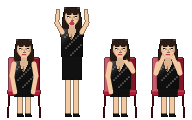
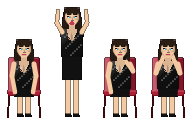
Screen, charge and box-out arms fixed; hold ○ to stay set for a charge; stronger cleavage
The screen and charge clips keyed short arms with the hands behind the elbows, which the arm rig
stretched into a backwards bend. They now fold the arms across the chest at full arm length
(elbows solved down and back, crossed forearms in turned views); box-outs spread the arms wide
with forearms up and elbows pointing at the floor. Holding ○ on defense keeps the charge set
until release (capped like held screens). Celebs 01, 09, 12 and 16: wider, deeper neckline and
stronger cleavage shading so it reads at game distance.

Claude-Session: https://claude.ai/code/session_01CcgHT1pqBqfrX5GZbFhXLS

diff --git a/src/render/anim.ts b/src/render/anim.ts
@@ -94,6 +94,20 @@ const defPose = (o: { hip?: number; fF?: J; fB?: J; hF?: J; hB?: J; dip?: number
     lat: { fF: fl, kF: fl - 1, fB: bl, kB: bl + 1, eF: 19, hF: 29, eB: -19, hB: -29 } };
 };
 
+/**
+ * Arms folded across the chest (screens, charges): hands crossed in front at full arm length, elbows solved down and
+ * back; the forearms cross toward the camera (lat), so turned views show the crossed arms too.
+ */
+const foldArms = (p: Pose, t: number): Pose => {
+  const hF: J = [p.sF[0] + 7, p.sF[1] - 13 - t], hB: J = [p.sB[0] + 8, p.sB[1] - 11 - t];
+  return { ...arms(p, hF, hB), lat: { ...(p.lat ?? {}), eF: 9, hF: -5, eB: -9, hB: 5 } };
+};
+/**
+ * Box-out arms: spread wide front and back with the forearms up and the elbows pointing at the floor (solved at full
+ * arm length so nothing bends backwards). k = how far the arms reach out (push = a little wider and higher).
+ */
+const boxArms = (p: Pose, k = 1): Pose => arms(p, [p.sF[0] + 15 * k, p.sF[1] + 3 * k], [p.sB[0] - 15 * k, p.sB[1] + 3 * k], [-1, 1]);
+
 const lowStance = P({ head: [3, 85], neck: [2, 76], sF: [3, 73], sB: [-1, 73], hip: [0, 44], kF: [7, 22], kB: [-6, 22], fF: [9, 0], fB: [-8, 0] });
 
 // jog / sprint keys (front leg forward, passing, back leg forward, passing)
@@ -378,12 +392,14 @@ export const CLIPS: Clip[] = [
     { t: 0, pose: P({ eF: [10, 71], hF: [17, 75] }, lowStance) },
     { t: 0.5, pose: P({ head: [6, 82], neck: [5, 73], sF: [6, 70], eF: [14, 58], hF: [22, 46], kF: [10, 22], fF: [13, 0] }, lowStance) },
     { t: 1, pose: P({ eF: [10, 71], hF: [17, 75] }, lowStance) }] },
+  // screen: wide base, arms folded across the chest at full arm length (elbows down and back, like the defensive arms)
   { name: 'screen', frames: 3, keys: [
-    { t: 0, pose: P({ kF: [6, 26], fF: [8, 0], kB: [-6, 26], fB: [-8, 0], hip: [0, 49], eF: [6, 68], hF: [1, 70], eB: [-5, 68], hB: [2, 72] }) },
-    { t: 1, pose: P({ kF: [7, 25], fF: [9, 0], kB: [-7, 25], fB: [-9, 0], hip: [0, 48], eF: [6, 67], hF: [0, 70], eB: [-5, 67], hB: [2, 71], head: [1, 90] }) }] },
+    { t: 0, pose: foldArms(legs(P({ hip: [0, 49], head: [2, 90] }), [9, 0], [-9, 0]), 0) },
+    { t: 1, pose: foldArms(legs(P({ hip: [0, 47], head: [2, 89], neck: [1, 80], sF: [2, 77], sB: [-2, 77] }), [10, 0], [-10, 0]), 1) }] },
+  // taking a charge: feet set, braced and leaning back a touch, arms folded to the chest
   { name: 'charge', frames: 3, keys: [
-    { t: 0, pose: lowStance },
-    { t: 1, pose: P({ head: [-2, 88], neck: [-2, 79], kF: [5, 25], fF: [7, 0], kB: [-5, 25], fB: [-7, 0], hip: [0, 48], eF: [4, 68], hF: [0, 70], eB: [-4, 68], hB: [1, 72] }) }] },
+    { t: 0, pose: foldArms(lowStance, 0) },
+    { t: 1, pose: foldArms(legs(P({ head: [-3, 86], neck: [-3, 77], sF: [-2, 74], sB: [-5, 74], hip: [0, 46] }), [8, 0], [-7, 0]), 1) }] },
   { name: 'fall', frames: 6, keys: [
     { t: 0, pose: P({ head: [-6, 88], neck: [-5, 79], sF: [-3, 77], sB: [-7, 77], eF: [4, 80], hF: [10, 88], eB: [-12, 78], hB: [-17, 84] }) },
     { t: 0.35, pose: P({ head: [-20, 40], neck: [-14, 36], sF: [-12, 34], sB: [-14, 34], hip: [0, 22], kF: [8, 30], fF: [16, 20], kB: [7, 26], fB: [15, 14], eF: [-6, 44], hF: [-1, 50], eB: [-20, 26], hB: [-24, 14] }) },
@@ -406,13 +422,13 @@ export const CLIPS: Clip[] = [
     { t: 1, pose: chest }] },
 
   { name: 'boxout', frames: 6, loop: true, keys: [
-    { t: 0, pose: P({ hip: [-2, 34], head: [-6, 72], neck: [-5, 63], sF: [-4, 60], sB: [-6, 60], eF: [9, 62], hF: [18, 66], eB: [-15, 62], hB: [-24, 66], kF: [9, 18], fF: [14, 0], kB: [-11, 18], fB: [-15, 0] }) },
-    { t: 0.5, pose: P({ hip: [-4, 32], head: [-8, 70], neck: [-7, 61], sF: [-6, 58], sB: [-8, 58], eF: [8, 60], hF: [18, 63], eB: [-16, 60], hB: [-25, 63], kF: [10, 18], fF: [15, 1], kB: [-12, 17], fB: [-16, 0] }) },
-    { t: 1, pose: P({ hip: [-2, 34], head: [-6, 72], neck: [-5, 63], sF: [-4, 60], sB: [-6, 60], eF: [9, 62], hF: [18, 66], eB: [-15, 62], hB: [-24, 66], kF: [9, 18], fF: [14, 0], kB: [-11, 18], fB: [-15, 0] }) }] },
+    { t: 0, pose: boxArms(P({ hip: [-2, 34], head: [-6, 72], neck: [-5, 63], sF: [-4, 60], sB: [-6, 60], kF: [9, 18], fF: [14, 0], kB: [-11, 18], fB: [-15, 0] })) },
+    { t: 0.5, pose: boxArms(P({ hip: [-4, 32], head: [-8, 70], neck: [-7, 61], sF: [-6, 58], sB: [-8, 58], kF: [10, 18], fF: [15, 1], kB: [-12, 17], fB: [-16, 0] }), 0.96) },
+    { t: 1, pose: boxArms(P({ hip: [-2, 34], head: [-6, 72], neck: [-5, 63], sF: [-4, 60], sB: [-6, 60], kF: [9, 18], fF: [14, 0], kB: [-11, 18], fB: [-15, 0] })) }] },
   { name: 'boxoutPush', frames: 6, loop: true, keys: [
-    { t: 0, pose: P({ hip: [-5, 33], head: [-5, 71], neck: [-5, 62], sF: [-5, 59], sB: [-7, 59], eF: [7, 60], hF: [16, 64], eB: [-17, 61], hB: [-26, 66], kF: [10, 18], fF: [16, 0], kB: [-10, 17], fB: [-13, 0] }) },
-    { t: 0.5, pose: P({ hip: [-8, 32], head: [-3, 70], neck: [-4, 61], sF: [-5, 58], sB: [-7, 58], eF: [7, 58], hF: [17, 61], eB: [-18, 59], hB: [-27, 62], kF: [11, 19], fF: [17, 1], kB: [-9, 18], fB: [-12, 0] }) },
-    { t: 1, pose: P({ hip: [-5, 33], head: [-5, 71], neck: [-5, 62], sF: [-5, 59], sB: [-7, 59], eF: [7, 60], hF: [16, 64], eB: [-17, 61], hB: [-26, 66], kF: [10, 18], fF: [16, 0], kB: [-10, 17], fB: [-13, 0] }) }] },
+    { t: 0, pose: boxArms(P({ hip: [-5, 33], head: [-5, 71], neck: [-5, 62], sF: [-5, 59], sB: [-7, 59], kF: [10, 18], fF: [16, 0], kB: [-10, 17], fB: [-13, 0] }), 1.05) },
+    { t: 0.5, pose: boxArms(P({ hip: [-8, 32], head: [-3, 70], neck: [-4, 61], sF: [-5, 58], sB: [-7, 58], kF: [11, 19], fF: [17, 1], kB: [-9, 18], fB: [-12, 0] }), 1.1) },
+    { t: 1, pose: boxArms(P({ hip: [-5, 33], head: [-5, 71], neck: [-5, 62], sF: [-5, 59], sB: [-7, 59], kF: [10, 18], fF: [16, 0], kB: [-10, 17], fB: [-13, 0] }), 1.05) }] },
   { name: 'bumped', frames: 7, keys: [
     { t: 0, pose: P({ head: [-12, 84], neck: [-9, 76], sF: [-6, 74], sB: [-10, 74], eF: [6, 84], hF: [14, 96], eB: [-18, 82], hB: [-26, 94], kF: [6, 32], fF: [10, 8], kB: [-6, 26], fB: [-10, 0] }) },
     { t: 0.3, pose: P({ head: [-15, 80], neck: [-12, 72], sF: [-9, 70], sB: [-13, 70], eF: [2, 78], hF: [9, 88], eB: [-22, 76], hB: [-30, 84], hip: [-3, 46], kF: [4, 26], fF: [7, 2], kB: [-10, 20], fB: [-16, 2] }) },

diff --git a/src/sim/game.ts b/src/sim/game.ts
@@ -779,6 +779,8 @@ export class GameSim {
         if (inp.a) this.jump(u, 1);
         if (inp.y) this.swipe(u);
         if (inp.b && !shotUp) this.takeCharge(u);
+        // hold ○ = stay set for the charge until released (like holding a screen)
+        if (inp.bHeld && u.state === 'charge') u.stateDur = Math.max(u.stateDur, Math.min(u.stateT + 0.15, SCREEN_HOLD_MAX));
       }
     }
     ux.bWasHeld = inp.bHeld;

diff --git a/README.md b/README.md
@@ -44,7 +44,7 @@ Keyboard: WASD move, **K**=✕, **L**=○, **J**=□, **I**=△, Shift sprint, E
 - **1v1 · Make It, Take It** (main menu): pick a team and any player on its roster for each side. P2 can be a **second player** (a second controller, or the keyboard if only one controller is plugged in) or the **CPU**. Score and you keep the ball. A defensive board or steal means the other player checks it up top. The default is 1s & 2s to 11, win by 2, and you can change it on the setup screen. 14-second shot clock, no ultimates.
 - **Hold ○** and the left-stick widget shows which move each direction does; drag that way to do it. Directions are relative to **your line to the hoop** (toward it = hesi, away = step-back, across it = crossover / side drive), and every move travels a fixed distance. While ○ is still held, flick again for the chain move (gold arcs). A quick **○ tap** = jab step (keeps your dribble).
 - **○ while a shot is in the air = box out.** Stronger box-outs knock players back, and so do screens.
-- **Hold ○ to keep a screen up** until you let go. How long a defender stays stuck depends on your screen rating, your strength vs his, and how mobile he is (Brick Wall makes it longer, Screen Navigator on defense makes it shorter).
+- **Hold ○ to keep a screen up** (on offense) or **stay set for a charge** (on defense) until you let go. How long a defender stays stuck depends on your screen rating, your strength vs his, and how mobile he is (Brick Wall makes it longer, Screen Navigator on defense makes it shorter).
 - **Passing range:** the yellow pass dot (and the L2 icons) **flash red** when the target is beyond your safe passing distance. Long leads to a teammate running the floor go overhead and reach further.
 - **Pump fake on the catch** (before your first dribble) keeps your dribble, so you can fake and drive past the closeout.
 - **Pixel editor:** dev panel → *Pixel editor: celebs* or *Pixel editor: face parts* (or open the game with `?editor` / `?editor=parts`). Edits show up in your next game; under `npm run dev`, *Save to repo* writes the PNGs into `src/art/`.

diff --git a/docs/DECISIONS.md b/docs/DECISIONS.md
@@ -108,6 +108,8 @@ Chronological. "Superseded" marks decisions later changed by the owner.
 - **Round 22:** loose-ball grabs depend on the ball's height (scoop / chest catch / reach, jump only above standing
   reach). **Coaches face the camera**, drift slowly, raise an arm with a **speech bubble** naming the play.
 - **Workflow:** after planning, build without waiting for a separate go-ahead.
+- **Hold ○ on defense = stay set for the charge** until released (mirrors held screens). Screen / charge / box-out arms
+  use the defense's elbows-down, fixed-length arms (no backwards-bending forearms).
 - **Round 24: faces are mix-and-match parts** the owner can hand-draw (hair front/back, beard, brows, eyes, nose,
   mouth; side + front views), drawn in grays and recolored per player; players pick variants by name
   (e.g. Tatum = hair_2 / beard_1 / eyes_3) saved in rosters.json. The owner sends edits by Save to repo + push.
